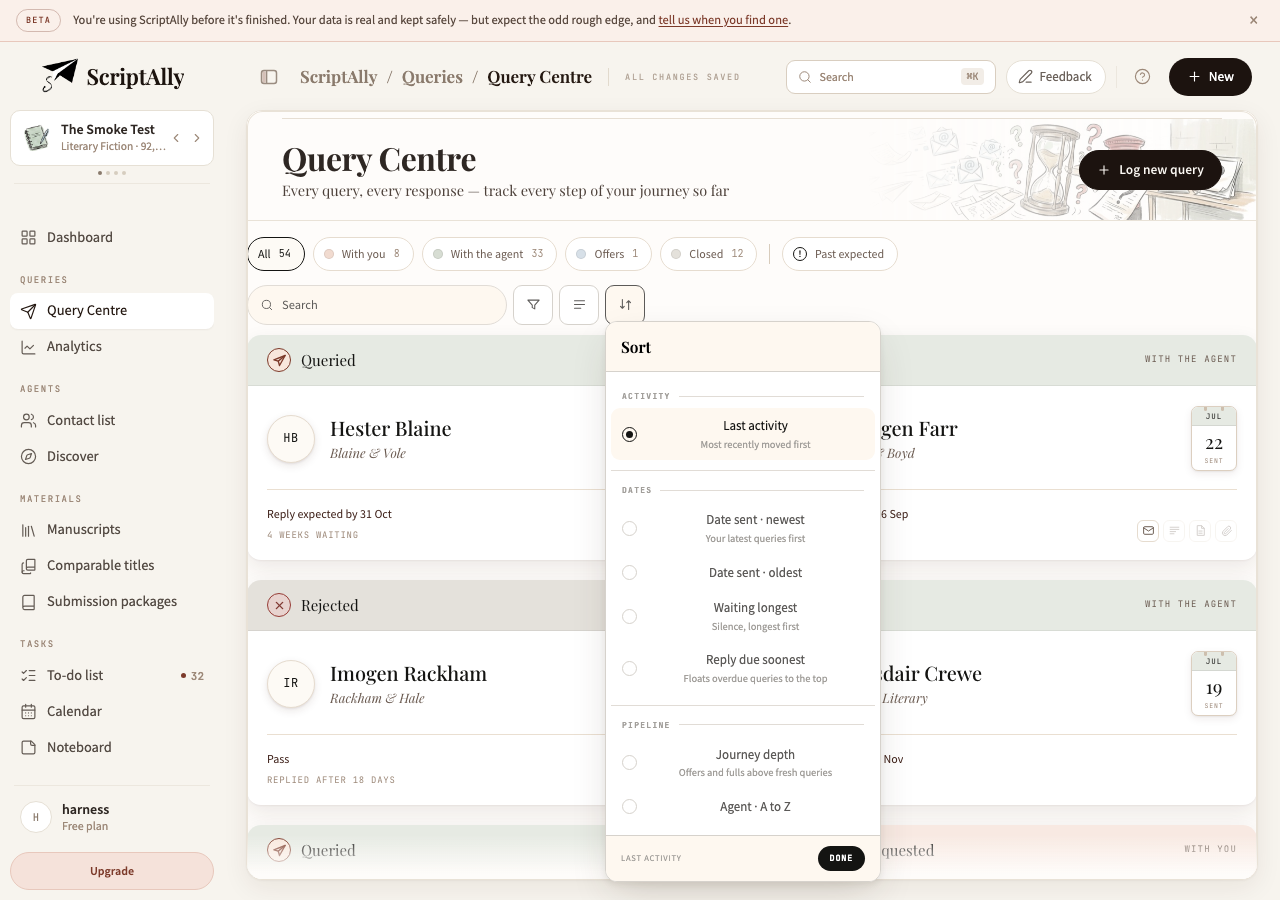
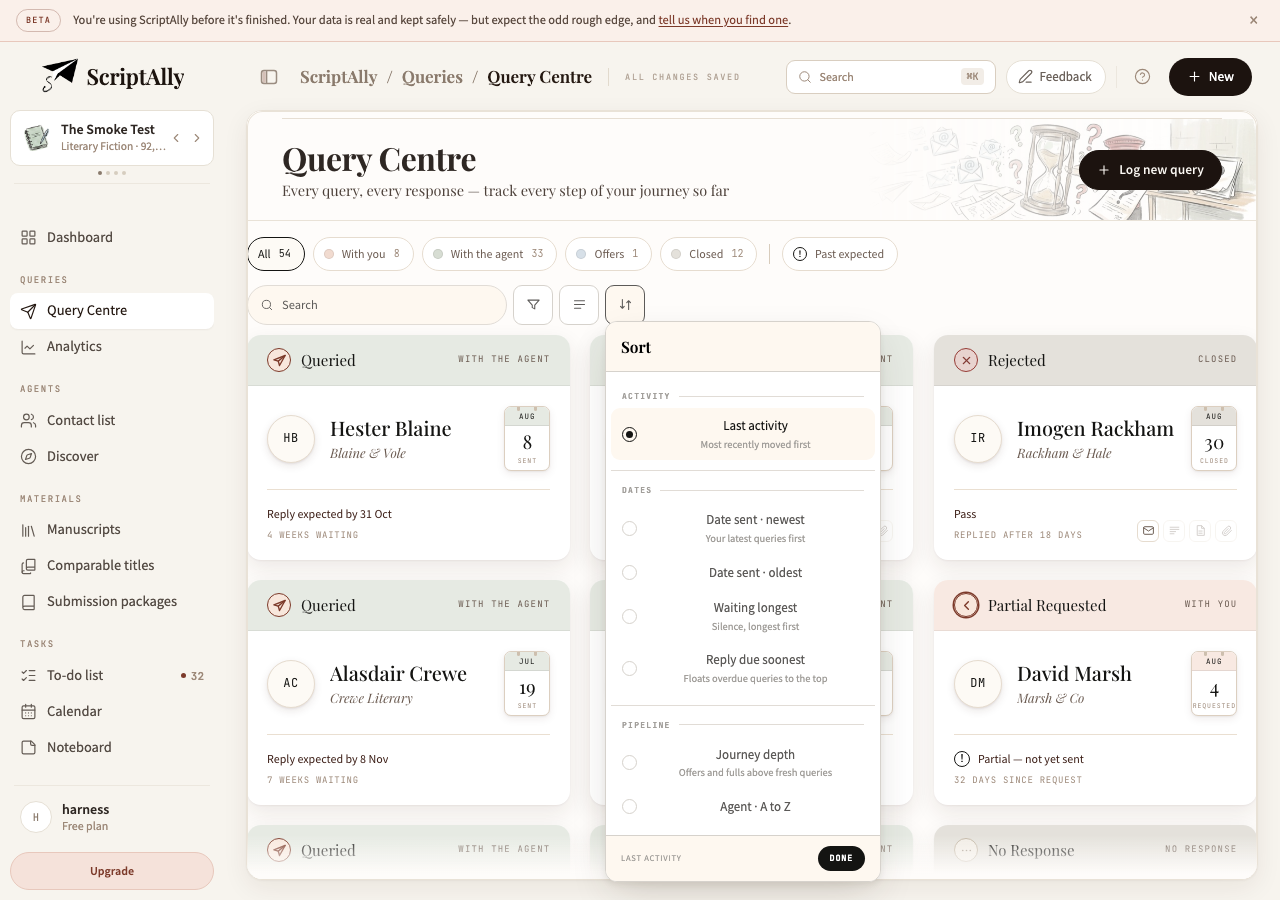
query centre: the 320 floor applied, and the rulesheet audited against the page
The floor moved in the REF and the code follows it. Pass 2 measured 340 fitting two cards at 1280
and declined to lower it, because overriding a value the ref states is how a build and its design
authority come to disagree quietly. Nick changed the ref (`6f790958`, one line in 107,778 bytes,
verified before copying), so this follows rather than compensates.

Measured: 1280 goes 2 → **3 columns** (≈323px cards). 1440, 1920 and 2560 are unchanged at 3, 4 and
4 — and the proof is that their screenshots came back BYTE-IDENTICAL to the committed ones, so this
commit contains only the 1280 pair. "No change" is a thing git can assert.

⚠ THE REF AND THE BUILD NOW DISAGREE AT 1440, and it is the rail rather than a fault: at 320 the
ref's 1368px standalone page fits four where the app's 1170px column fits three. Same rule, less
width — the same cause as 340 fitting two at 1280.

⚠ `query-tint-ladder.md` AUDITED, AND EVERY VALUE MATCHES. It arrived after pass 2 had already
built §4 from the ref's `:root` and its line-618 mapping, so this is the check that the guess was
right: all eight tokens, the mapping, the hairline, the band type and the 24px StatusDot agree with
what shipped — including two rows the ref could NOT have supplied (a requested-but-unsent parcel
takes the step it was requested at; a decided offer becomes closed).

TWO CONTRADICTIONS, BOTH ON THE RECORD VIEW, REPORTED RATHER THAN FIXED:
[…]

diff --git a/tests/e2e/queryCentrePass2.measure.ts b/tests/e2e/queryCentrePass2.measure.ts
@@ -190,6 +190,58 @@ test("pass 2 — cap, search, popovers, ladder, leaves", async ({ page }) => {
   }
   out.popoversNarrow = narrow;
 
+  /**
+   * ⚠ THE RULESHEET'S "WHERE THE TINT APPEARS" — AUDITED, NOT ASSERTED. Items 3 and 5 name the
+   * RECORD view's header band and its list-row tint, which this pass does not touch; reading them
+   * is how the report can say whether the built page contradicts the sheet rather than guessing.
+   * Reported so a gap is visible; not asserted, because failing a lock on a surface this commit
+   * deliberately leaves alone would be a red nobody can act on.
+   */
+  const tintAudit = await (async () => {
+    const card = page.locator(".qcc").first();
+    if (!(await card.count())) return { ran: false };
+    const stage = await card.getAttribute("class");
+    await card.click();
+    await page.waitForTimeout(1200);
+    return {
+      ran: true,
+      cardStageClass: (stage ?? "").split(" ").find((c) => c.startsWith("qcc--s-")) ?? "(none)",
+      ...(await page.evaluate(() => {
+        const vis = (s: string) =>
+          [...document.querySelectorAll<HTMLElement>(s)].find((e) => e.getBoundingClientRect().height > 0) ?? null;
+        const bg = (e: HTMLElement | null) => (e ? getComputedStyle(e).backgroundColor : null);
+        const root = getComputedStyle(document.documentElement);
+        const ladder = Object.fromEntries(
+          ["out-1", "out-2", "out-3", "in-1", "in-2", "in-3", "offer", "closed"]
+            .map((k) => [k, root.getPropertyValue(`--stage-${k}`).trim()]),
+        );
+        /* the record view's identity band, whatever this page calls it */
+        const header = vis(".qc-heroband") ?? vis(".f12-hero") ?? vis(".qc-hero") ?? vis(".qc-idband");
+        const selectedRow = vis(".f12-row.is-sel") ?? vis(".f12-row[aria-selected='true']") ?? vis(".f12-row-on");
+        return {
+          recordViewReached: !!vis(".f12-body"),
+          headerFound: !!header,
+          headerBand: bg(header),
+          selectedRowFound: !!selectedRow,
+          selectedRowBand: bg(selectedRow),
+          ladder,
+          /* does ANYTHING in the record view paint a ladder token? */
+          stageTokenUsersInRecord: [...document.querySelectorAll<HTMLElement>(".f12-body *")]
+            .filter((e) => {
+              const c = getComputedStyle(e).backgroundColor;
+              return Object.values(ladder).some((hex) => {
+                if (!hex) return false;
+                const n = hex.replace("#", "");
+                const rgb = `rgb(${parseInt(n.slice(0,2),16)}, ${parseInt(n.slice(2,4),16)}, ${parseInt(n.slice(4,6),16)})`;
+                return c === rgb;
+              });
+            }).length,
+        };
+      })),
+    };
+  })();
+  out.tintAudit = tintAudit;
+
   mkdirSync("reports", { recursive: true });
   writeFileSync("reports/query-centre-pass2.json", JSON.stringify(out, null, 2));
   expect(Object.keys(out).length, "the probe recorded nothing").toBeGreaterThan(6);

diff --git a/src/components/queries/queryCard.css b/src/components/queries/queryCard.css
@@ -18,11 +18,17 @@
 /* ── the grid ───────────────────────────────────────────────────────────────────────────────── */
 .qcc-grid {
   display: grid;
-  /* ⚠ 340, NOT 380 — the ref's, and it is what makes the count right rather than merely
-     plausible. In a 1480 cap: floor((1480 + 20) / (340 + 20)) = 4 columns of 355px. At 380 the
-     same cap yields 3, and at 1440 (a ~1100 column beside the rail) it yielded 2 where the ref
-     draws 3. The cap and the track floor decide the count together; neither alone. */
-  grid-template-columns: repeat(auto-fill, minmax(340px, 1fr));
+  /**
+   * ⚠ 320, AND THE REF MOVED FIRST. Pass 2 measured 340 fitting only TWO cards at 1280 — the app's
+   * content column is 1010px there against the ref's standalone 1208, 198px narrower because of
+   * the rail — and declined to lower it, because overriding a value the ref states is how a build
+   * and its design authority come to disagree quietly. Nick changed the ref instead (`6f790958`,
+   * one line in 107,778 bytes), so this follows it rather than compensating for it.
+   *
+   * The arithmetic, since the count is what the value is FOR: floor((col + 20) / 340) columns.
+   * 1010 → 3 · 1170 → 3 · 1480 → 4. The cap and the floor decide it together; neither alone.
+   */
+  grid-template-columns: repeat(auto-fill, minmax(320px, 1fr));
   gap: 20px;
 }
 

diff --git a/reports/query-centre-measure.md b/reports/query-centre-measure.md
@@ -297,3 +297,82 @@ One lock of mine went red and was retargeted rather than rebaselined: `QueryCard
 class. Its law — *the class comes from the derivation, never re-decided in the component* — is
 unchanged; what moved is which derivation, from the five courts to the eight rungs. Both halves are
 now asserted, since `turn` still drives the filters.
+
+---
+
+## Pass 2 · addendum — the 320 floor, and the rulesheet audited
+
+The floor moved in the REF (`6f790958`, one line in 107,778 bytes) and the code follows it. Pass 2
+declined to lower it precisely because the ref stated 340; the authority moved first.
+
+### Columns, before and after
+
+| width | content column | at 340 | at 320 | card |
+|---|---|---|---|---|
+| 1280 | 1010px | 2 cols | **3 cols** | ≈323px |
+| 1440 | 1170px | 3 cols | 3 cols — unchanged | ≈377px |
+| 1920 | — | 4 cols | 4 cols — unchanged | — |
+| 2560 | 1480px | 4 cols | 4 cols — unchanged | ≈355px |
+
+⚠ **The ref and the build now differ at 1440, and that is the rail rather than a fault.** At 320
+the ref's 1368px page fits FOUR; the app's 1170px column fits three. Same rule, different available
+width — the same reason 340 fitted two at 1280. The brief asked for 3 at 1280 and no change at
+1440/1920/2560, and that is what shipped.
+
+### `query-tint-ladder.md` — audited against the built page
+
+The rulesheet arrived after pass 2 built §4 from the ref's code. **Every token value and the whole
+status→stage mapping in it match what shipped**, including the two the ref could not have told me:
+that `Requested but not yet sent` takes the step it was requested at, and that a decided offer
+becomes `closed`.
+
+#### "Where the tint appears" — 7 items
+
+| # | item | state |
+|---|---|---|
+| 1 | Card band | ✅ |
+| 2 | Leaf month strip, same token as its band | ✅ |
+| 3 | **Detail panel header band, same token as the card that opened it** | ❌ **contradicted** |
+| 4 | Quick-filter swatches (`in-2` / `out-2` / offer / closed) | ✅ |
+| 5 | Any list-row tint **that encodes state** | ⚠ see below |
+| 6 | Dashboard pipeline cells / Fortnight in Focus | ➖ neither |
+| 7 | Ghost tile — dashed, no tint until saved | ➖ not built (Phase 5) |
+
+**Item 3 is a measured contradiction.** Opening a card (`qcc--s-out-1`) reaches the record
+view, and **nothing inside it paints a ladder token** — `stageTokenUsersInRecord: 0`. No element
+matching `.qc-heroband` / `.f12-hero` / `.qc-hero` / `.qc-idband` was found either, so the record
+view has no state-tinted header band to carry the card's token. The record view is the surface
+Phase 4 replaces with the slide-over, so this is **reported, not fixed here** — but it is a real
+divergence from a locked sheet and should be closed by Phase 4 rather than forgotten.
+
+**Item 5 needs Nick's ruling.** The list's selected row paints `rgb(247, 227, 221)` — a pink that is
+**not** a ladder token (`--stage-in-1` is `rgb(248, 233, 226)`). Two readings, and the sheet
+supports both: item 5 only claims rows *"that encode state"*, and a selection tint encodes
+SELECTION, so it is arguably out of scope. But "What the tint does not do" says *"Selection is a
+1.5px #e8c8bc ring, not a fill"* — and this is a fill. **The card obeys that rule** (ring, no fill);
+the list row predates it. Flagged rather than changed, since the list is Phase 4's to re-house.
+
+**Item 6 is neither followed nor contradicted.** The dashboard's charts colour by `--sd-hue`, the
+StatusDot theme accent — one hue for the whole surface, not a state palette. They do not encode
+query state by colour at all, so there is no second palette to have invented.
+
+#### "What the tint does not do" — 6 rules
+
+| rule | state |
+|---|---|
+| Never encodes time pressure; overdue is the ink `!` ring, 16px / 1.4px / JetBrains 700 | ✅ exactly that, and locked |
+| Never changes on hover; hover is shadow only | ✅ locked as an absence of `transform` |
+| Selection is a `1.5px #e8c8bc` ring, not a fill | ✅ on the card · ⚠ the record list row fills (above) |
+| Chips parchment-lifted regardless of band — never pink, never band-tinted | ✅ locked |
+| No red; no burgundy outside StatusDot, Form 11 chrome and the inset frame | ✅ swept, both files |
+| Closed is always grey whatever the reason; the reason is stated in words | ✅ `--stage-closed` for every closed status, and `closedSentence()` states the reason |
+
+⚠ **One thing the sheet names that the app cannot model:** `Offer accepted or declined → closed`.
+`QueryStatus` has `OFFER` and no accepted/declined member, so that row describes a distinction the
+data does not carry. Not a contradiction — a gap in the model the sheet assumes. Flagged.
+
+### Gate
+
+Isolated worktree, this pass's files on clean `HEAD`: **tsc 0 · build:dev clean · vitest 1 failed /
+7484 passed (7488)** — `datePickerHub`, another stream's. `functions/src/email.test.ts` fails to
+COLLECT in the worktree only (no `functions/node_modules`); it passes 9/9 in the primary tree.

diff --git a/reports/query-centre-build.md b/reports/query-centre-build.md
@@ -423,3 +423,37 @@ audit about, committed by me, and the Filter facets are where they belong now.
 198px narrower, because of the rail. `auto-fill` with the ref's own 340px floor fits two. Three
 would need the floor at ≤323px, i.e. overriding a value the ref states in order to compensate for
 the rail. Flagged rather than changed; one line if wanted.
+
+---
+
+## Correction pass 2 · addendum — the 320 floor, and the rulesheet audited
+
+The floor moved in the **ref** (`6f790958` — one line in 107,778 bytes, verified) and the code
+follows it. Pass 2 declined to lower it because the ref stated 340; the authority moved first, so
+this is following rather than compensating.
+
+**1280 now renders 3 columns** (≈323px cards), and 1440 / 1920 / 2560 are unchanged at 3 / 4 / 4.
+⚠ The ref and the build now disagree at 1440 — the ref's 1368px page fits four where the app's
+1170px column fits three — and that is the rail again, not a fault.
+
+### `query-tint-ladder.md` audited: every value matches, two surfaces do not
+
+The rulesheet arrived after pass 2 had built §4 from the ref's own code. **All eight tokens, the
+mapping, the hairline, the band type and the 24px StatusDot match what shipped** — including two
+rows the ref could not have supplied (a requested-but-unsent parcel takes the step it was requested
+at; a decided offer becomes closed).
+
+Two contradictions, both on the **record view**, which this pass does not touch:
+
+- **"Detail panel header band — same token as the card that opened it" is not implemented.**
+  Measured: opening a card reaches the record view and **nothing inside it paints a ladder token**
+  (`stageTokenUsersInRecord: 0`), and no state-tinted header band exists to carry one. Phase 4
+  replaces that surface with the slide-over and should close this rather than inherit it.
+- **The record list's selected row is a pink FILL (`rgb(247, 227, 221)`) that is not a ladder
+  token.** The sheet says *"Selection is a 1.5px #e8c8bc ring, not a fill"*. The card obeys that;
+  the list row predates it. Needs Nick's ruling — item 5 only claims rows *"that encode state"*, and
+  a selection tint arguably encodes selection.
+
+Also flagged: the sheet maps **"Offer accepted or declined → closed"**, and `QueryStatus` has no
+accepted/declined member. Not a contradiction — a distinction the sheet assumes and the data does
+not carry.
